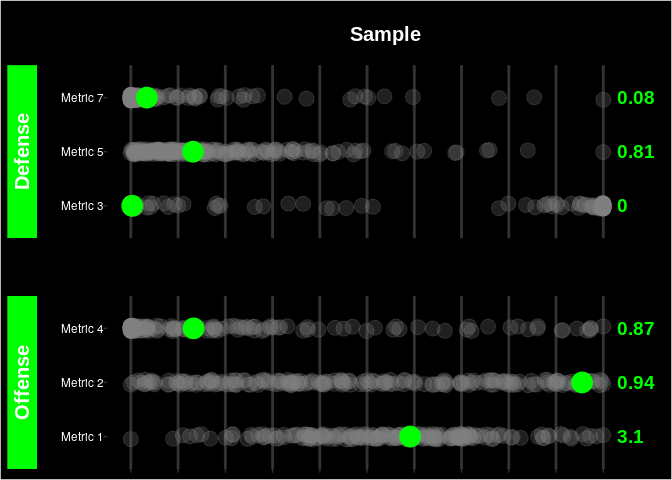
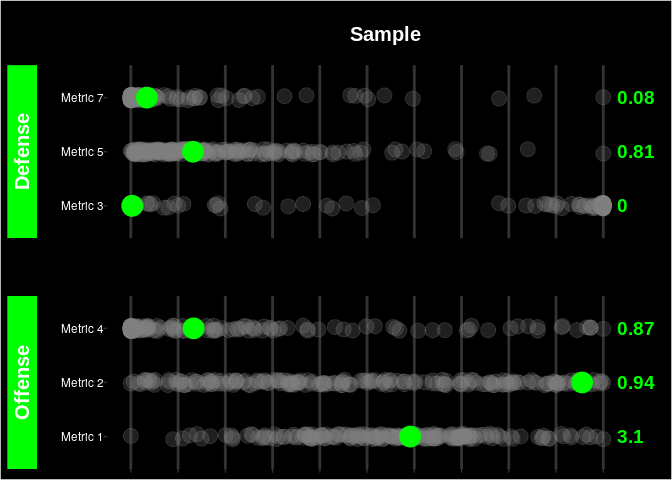
Added beeswarm

diff --git a/README.md b/README.md
@@ -476,6 +476,20 @@ theme\_pitch
 
 ![](README_files/figure-markdown_strict/fStripChart-1.png)
 
+### fBeeswarmChart
+
+    pStripChart = fBeeswarmChart (
+       dtPlayerMetrics,
+       vcColumnsToIndex = c('playerId','PlayerName','TeamName'),
+       dtMetricCategorisation,
+       iPlayerId = 2,
+       cTitle = 'Sample'
+    )
+
+    print(pStripChart)
+
+![](README_files/figure-markdown_strict/fBeeswarmChart-1.png)
+
 ### fPercentileBarChart
 
     pPercentileBarChart = fPercentileBarChart(
@@ -782,7 +796,7 @@ nature of the data.
     )
 
     print(fGetEMDFromDetailedEMD(lprec))
-    #> [1] 0.4536791
+    #> [1] 0.3747069
 
     # This value should be the same as that computed by emdist package's emd function.
     # EMD needs the weightage of each point, which is assigned as equal in our
